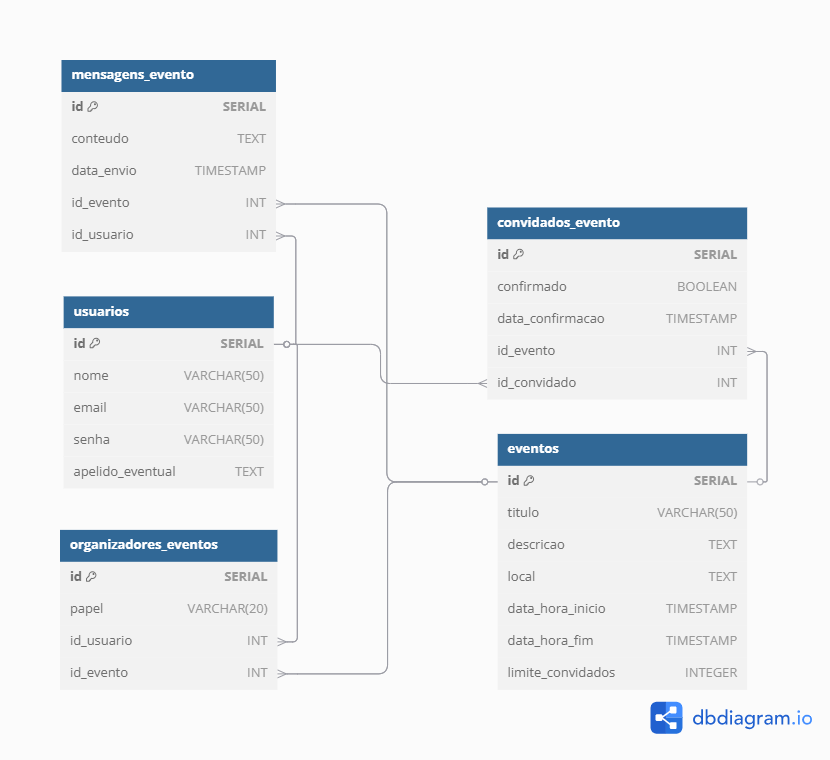
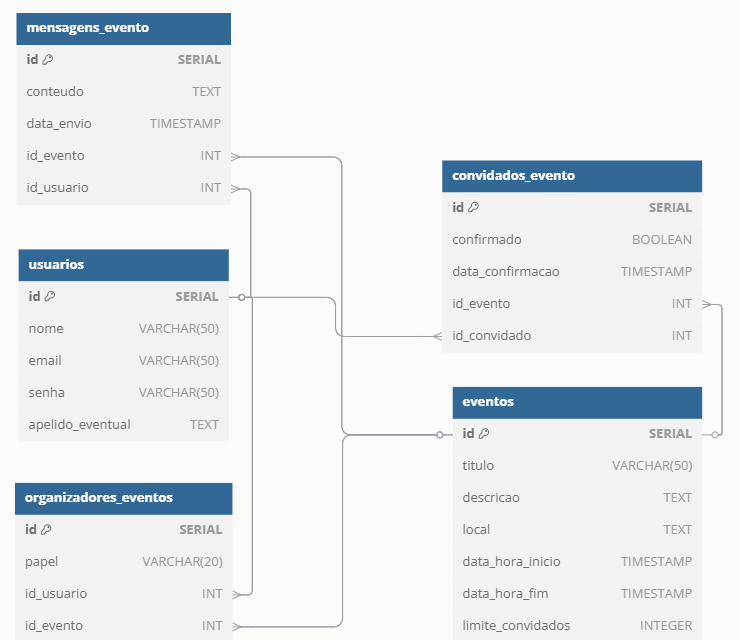
docs: atualiza seção 3.1

diff --git a/documentos/wad.md b/documentos/wad.md
@@ -47,7 +47,7 @@ Nesse sentido, a modelagem lógica é o planejamento essencial de uma aplicaçã
 
 <div align="center">
    <sub>Imagem 1: Modelo lógico do banco de dados</sub><br>
-   <img src="../assets/wad/modelo_conceitual.png" width="100%" 
+   <img src="../assets/wad/modelo_relacional.png" width="100%" 
    alt="Título"><br>
    <sup>Fonte: THX Hub, 2025 (Autoral)</sup>
  </div>
@@ -60,8 +60,9 @@ A relação entre usuários e eventos no papel de organizadores é feita por mei
 **2. Usuários e Eventos (relação de convite)**
 A relação entre usuários e eventos no papel de convidados é registrada na tabela *convidados_evento*. Também é uma relação N para N, já que um usuário pode ser convidado para vários eventos e um evento pode ter vários convidados. Nessa tabela, há o campo `confirmado`, que indica se o convidado aceitou o convite, e o campo `data_confirmacao`, que registra quando isso ocorreu. Essa tabela permite que o organizador gerencie a lista de convidados.
 
-**3. Usuários e Eventos (relação de inscrição e check-in)**
-A tabela *inscricoes* representa as confirmações de presença dos convidados nos eventos. Ela também estabelece uma relação N para N entre usuários e eventos. Nela, o campo `codigo_inscricao` armazena um identificador único que pode ser enviado ao convidado para confirmação de presença (por exemplo, por e-mail ou QR Code). Os campos `checkin_realizado` e `data_checkin` são usados para registrar se o convidado de fato compareceu ao evento e quando foi feito o check-in.
+**3. Usuários e Mensagens de Evento**
+
+Por fim, a tabela *mensagens_evento* está relacionada a eventos e usuários, permitindo que usuários enviem mensagens em eventos específicos. Cada mensagem pertence a um único evento e pode estar associada a um usuário, facilitando a comunicação dentro da plataforma e mantendo o histórico das interações nos eventos.
 
 Para acessar o modelo físico, [acesse o link aqui](https://github.com/matheusferreirq/THX-HUB/blob/main/scripts/init.sql).
 
